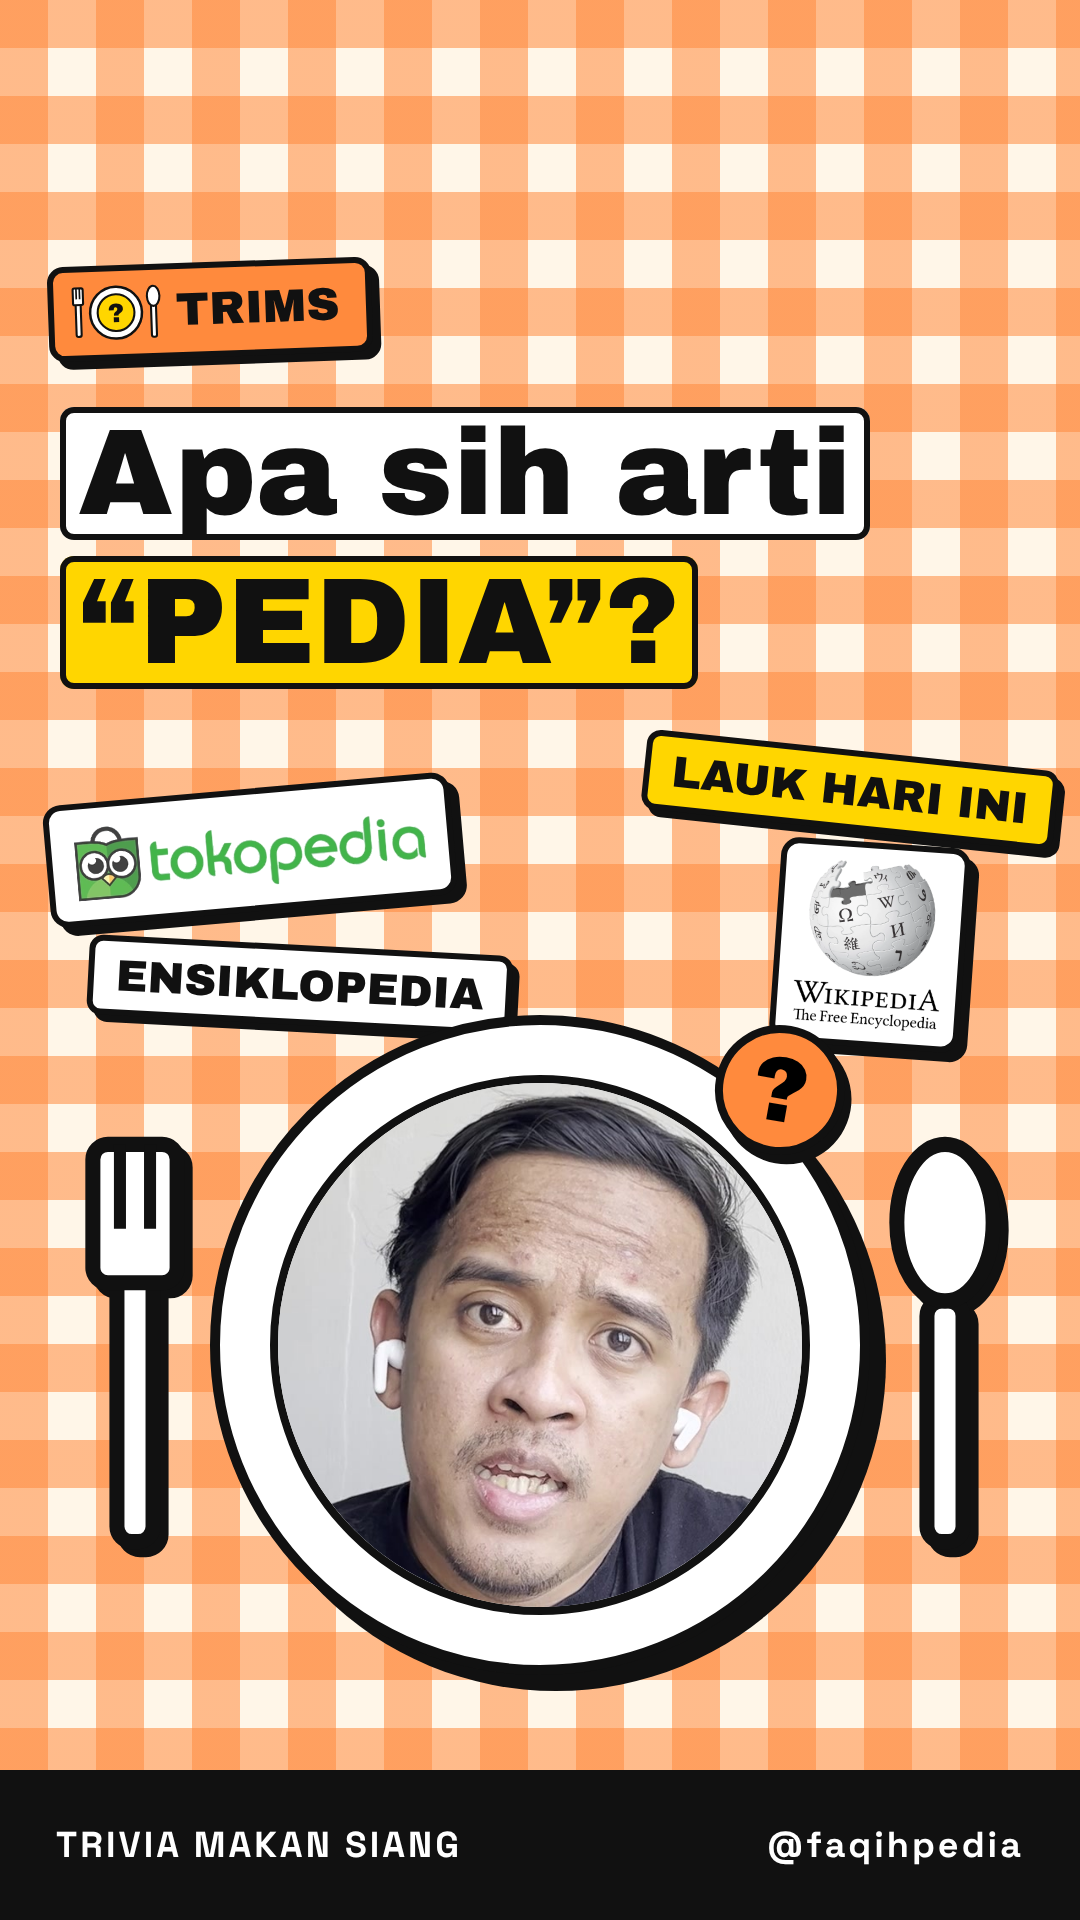
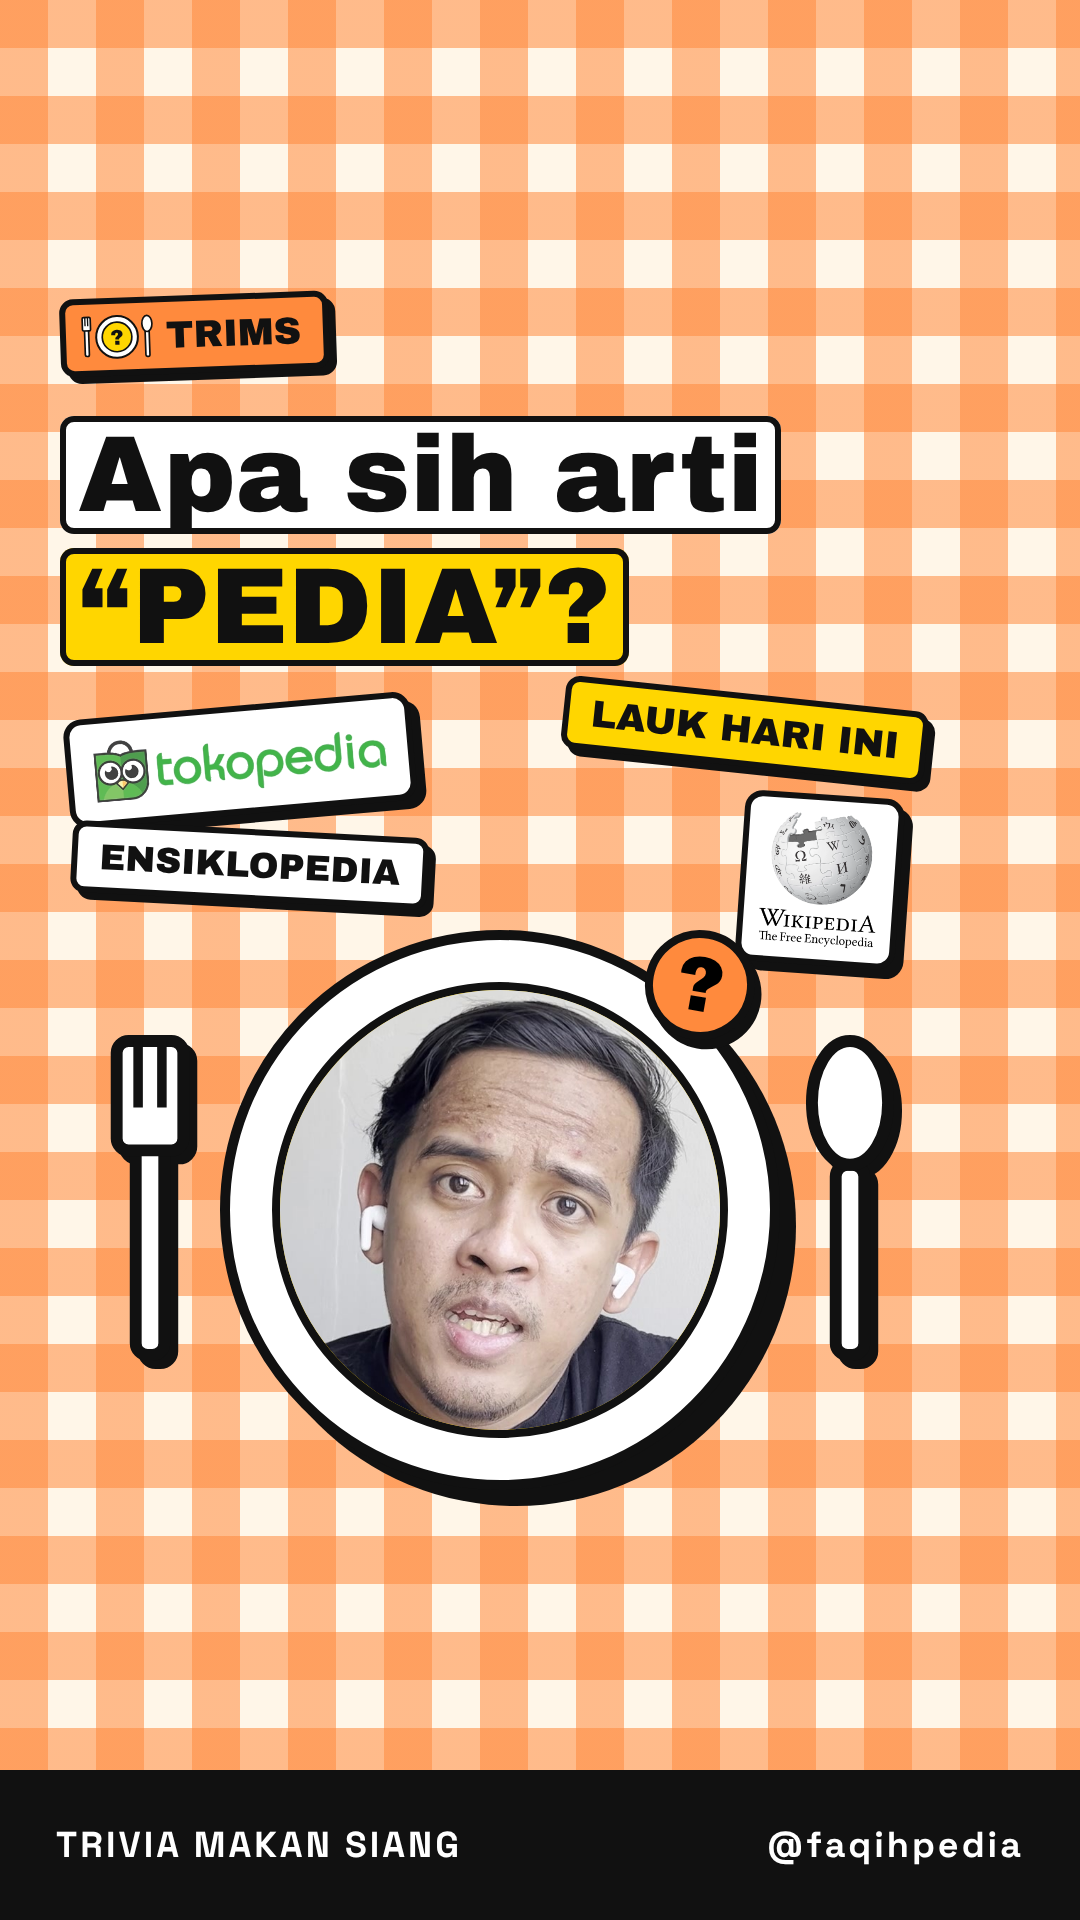
faqihpedia-artipedia: keep captions, stickers, stages and the cover inside the TikTok/Reels/feed safe area
Claude-Session: https://claude.ai/code/session_018xRo3dkDcCpQWWhAE55WWc

diff --git a/faqihpedia-artipedia/src/Video.tsx b/faqihpedia-artipedia/src/Video.tsx
@@ -4,7 +4,7 @@ import { CAPS } from './caps';
 import { At, Background, Box, Burst, Gingham, Rich, Sticker, lin, pop } from './components';
 import { PediaWord, SCENES } from './scenes';
 import { Sfx } from './sfx';
-import { BODY, BORDER, C, CUTS, END_CARD, HEAD, LAYOUT, MORPH, Mode, TOTAL, s, shadow } from './theme';
+import { BODY, BORDER, C, CUTS, END_CARD, HEAD, LAYOUT, MORPH, Mode, SAFE, SAFE_CX, TOTAL, s, shadow } from './theme';
 
 /* ------------------------------------------------------------------ */
 /* layout engine: one video element that morphs between three layouts */
@@ -21,9 +21,10 @@ type G = {
 };
 
 const GEOM: Record<Mode, G> = {
-  full: { vx: 0, vy: 0, vw: 1080, vh: 1920, vr: 0, vb: 0, sy: 0, scx: 540, scy: -640, ss: 1, full: 1, split: 0, anim: 0 },
-  split: { vx: 40, vy: 1000, vw: 1000, vh: 880, vr: 28, vb: BORDER, sy: 470, scx: 540, scy: 505, ss: 1, full: 0, split: 1, anim: 0 },
-  anim: { vx: 40, vy: 2080, vw: 1000, vh: 880, vr: 28, vb: BORDER, sy: 470, scx: 540, scy: 790, ss: 1.04, full: 0, split: 0, anim: 1 },
+  // stages are 1000x880 and scaled so they sit inside SAFE (x 60-940, y 285-1500)
+  full: { vx: 0, vy: 0, vw: 1080, vh: 1920, vr: 0, vb: 0, sy: 0, scx: SAFE_CX, scy: -640, ss: 0.72, full: 1, split: 0, anim: 0 },
+  split: { vx: 40, vy: 960, vw: 1000, vh: 920, vr: 28, vb: BORDER, sy: 590, scx: SAFE_CX, scy: 300 + 317, ss: 0.72, full: 0, split: 1, anim: 0 },
+  anim: { vx: 40, vy: 2080, vw: 1000, vh: 920, vr: 28, vb: BORDER, sy: 590, scx: SAFE_CX, scy: 385 + 387, ss: 0.88, full: 0, split: 0, anim: 1 },
 };
 
 const morphT = (f: number, start: number) =>
@@ -133,9 +134,11 @@ const Swipe: React.FC<{ f: number }> = ({ f }) => (
 /* captions, whole video                                               */
 /* ------------------------------------------------------------------ */
 const Captions: React.FC<{ f: number; g: G }> = ({ f, g }) => {
-  const y = 1560 * g.full + 1760 * g.split + 1580 * g.anim;
-  const w = 900 - 60 * g.split;
-  const fs = 46 - 6 * g.split;
+  // full/anim: bottom of the safe area. split: between the illustration and the face,
+  // so the face (lower in the frame) stays clear and everything is inside SAFE
+  const y = (g.full + g.anim) * (SAFE.bottom - 90) + g.split * 1000;
+  const w = SAFE.right - SAFE.left - 40;
+  const fs = 44;
   return (
     <>
       {CAPS.map(([a, b, text], i) => {
@@ -145,7 +148,7 @@ const Captions: React.FC<{ f: number; g: G }> = ({ f, g }) => {
         const p = pop(f, from, 260);
         const out = lin(f, to - 3, to);
         return (
-          <At key={i} x={540} y={y} s={(0.88 + 0.12 * p) * (1 - 0.06 * out)} o={Math.min(1, p * 1.6) * (1 - out)} r={i % 2 ? 1 : -1}>
+          <At key={i} x={SAFE_CX} y={y} s={(0.88 + 0.12 * p) * (1 - 0.06 * out)} o={Math.min(1, p * 1.6) * (1 - out)} r={i % 2 ? 1 : -1}>
             <Box pad="20px 30px" style={{ width: w, fontSize: fs, lineHeight: 1.3, fontWeight: 600, textAlign: 'center' }}>
               <Rich text={text} />
             </Box>
@@ -173,14 +176,14 @@ const FullStickers: React.FC<{ f: number; o: number }> = ({ f, o }) => {
   // "pedia" lands at 4.7s: every name gets a little bump
   const bump = 1 + 0.08 * Math.sin(Math.PI * lin(f, s(4.7), s(4.7) + 8));
   const hook = [
-    { at: 1.4, src: 'tokopedia.png', w: 430, x: 330, y: 455, r: 3 },
-    { at: 2.1, src: 'wikipedia.png', w: 210, x: 830, y: 395, r: -3 },
+    { at: 1.4, src: 'tokopedia.png', w: 270, x: 780, y: 615, r: 3 },
+    { at: 2.1, src: 'wikipedia.png', w: 130, x: 780, y: 790, r: -3 },
   ];
   return (
     <div style={{ position: 'absolute', inset: 0, opacity: o }}>
       {/* TRIMS fixed opening line */}
       {gone(0, 5.6) && (
-        <At x={540} y={205} s={P(0.1, 200) * out(5.6)} r={-1}>
+        <At x={SAFE_CX} y={385} s={P(0.1, 200) * out(5.6)} r={-1}>
           <Box bg={C.white} pad="10px 24px" radius={14} sh={7} style={{ fontFamily: BODY, fontWeight: 700, fontSize: 36, whiteSpace: 'nowrap' }}>
             Bahan obrolan makan siang hari ini…
           </Box>
@@ -188,8 +191,8 @@ const FullStickers: React.FC<{ f: number; o: number }> = ({ f, o }) => {
       )}
       {/* hook: three -pedia names, then the question */}
       {gone(0, 6.3) && (
-        <At x={330} y={320} s={P(0.3) * out(6.3) * bump} r={-4}>
-          <PediaWord head="ENSIKLO" lit={lin(f, s(4.7), s(4.7) + 6)} size={46} />
+        <At x={780} y={500} s={P(0.3) * out(6.3) * bump} r={-4}>
+          <PediaWord head="ENSIKLO" lit={lin(f, s(4.7), s(4.7) + 6)} size={36} />
         </At>
       )}
       {/* the real Tokopedia and Wikipedia logos, on white cards */}
@@ -202,7 +205,7 @@ const FullStickers: React.FC<{ f: number; o: number }> = ({ f, o }) => {
           </At>
         ))}
       {gone(5.8, 9.15) && (
-        <At x={540} y={330} s={P(5.9, 180) * out(9.15)} r={-3}>
+        <At x={SAFE_CX} y={470} s={P(5.9, 180) * out(9.15)} r={-3}>
           <Box bg={C.yellow} pad="14px 34px" style={{ fontFamily: HEAD, fontSize: 70, whiteSpace: 'nowrap' }}>
             “PEDIA” = <span style={{ background: C.white, border: `5px solid ${C.ink}`, borderRadius: 12, padding: '0 16px' }}>?</span>
           </Box>
@@ -210,26 +213,26 @@ const FullStickers: React.FC<{ f: number; o: number }> = ({ f, o }) => {
       )}
       {/* dig deeper */}
       {gone(33.3, 35.8) && (
-        <At x={540} y={330} s={P(33.4) * out(35.8)} r={2}>
+        <At x={SAFE_CX} y={460} s={P(33.4) * out(35.8)} r={2}>
           <Sticker bg={C.purple} size={54}>Bedah lebih dalam</Sticker>
         </At>
       )}
       {/* the account name */}
       {gone(86.3, 93.2) && (
         <>
-          <At x={540} y={270} s={P(88.5, 180) * out(93.2)} r={-3}>
+          <At x={SAFE_CX} y={440} s={P(88.5, 180) * out(93.2)} r={-3}>
             <Box bg={C.yellow} pad="10px 30px" style={{ fontFamily: HEAD, fontSize: 64, whiteSpace: 'nowrap' }}>
               FAQIH<span style={{ background: C.white, boxShadow: `inset 0 0 0 5px ${C.ink}`, borderRadius: 10, padding: '0 4px' }}>PEDIA</span>
             </Box>
           </At>
-          <At x={540} y={410} s={P(90.2) * out(93.2)} r={2}>
+          <At x={SAFE_CX} y={570} s={P(90.2) * out(93.2)} r={2}>
             <Sticker bg={C.green} size={40}>Dokumentasi yang aku tahu</Sticker>
           </At>
         </>
       )}
       {/* outro */}
       {gone(106.3, 111.3) && (
-        <At x={540} y={330} s={P(108.9) * out(111.3)} r={-2}>
+        <At x={SAFE_CX} y={460} s={P(108.9) * out(111.3)} r={-2}>
           <Box bg={C.white} pad="12px 30px" style={{ display: 'flex', alignItems: 'center', gap: 18, fontFamily: HEAD, fontSize: 50, whiteSpace: 'nowrap' }}>
             <span style={{ transform: `scale(${1 + 0.15 * Math.max(0, Math.sin((f - s(109.0)) * 0.35))})`, display: 'flex' }}><Heart /></span>
             LIKE DULU YA
@@ -237,7 +240,7 @@ const FullStickers: React.FC<{ f: number; o: number }> = ({ f, o }) => {
         </At>
       )}
       {f >= s(111.3) && (
-        <At x={540} y={360} s={P(111.35, 200)} r={-6}>
+        <At x={SAFE_CX} y={520} s={P(111.35, 200)} r={-6}>
           <Burst size={460} color={C.yellow} rot={f * 0.8}>
             <span style={{ fontSize: 66 }}>TRIMS!</span>
           </Burst>
@@ -264,9 +267,9 @@ export const TrimsLogo: React.FC<{ size?: number }> = ({ size = 70 }) => (
 
 /** segment label, top-left (segment kit rule); hidden while the split layout needs the top edge */
 const SegmentBadge: React.FC<{ f: number; o: number }> = ({ f, o }) => (
-  <div style={{ position: 'absolute', left: 44, top: 62, opacity: o, transform: `scale(${pop(f, 4)}) rotate(-2deg)`, transformOrigin: 'left center' }}>
-    <Box bg={C.orange} pad="8px 22px 8px 14px" radius={14} sh={7} style={{ display: 'flex', alignItems: 'center', gap: 12, fontFamily: HEAD, fontSize: 38, whiteSpace: 'nowrap' }}>
-      <TrimsLogo size={74} />
+  <div style={{ position: 'absolute', left: SAFE.left, top: SAFE.top + 8, opacity: o, transform: `scale(${pop(f, 4)}) rotate(-2deg)`, transformOrigin: 'left center' }}>
+    <Box bg={C.orange} pad="6px 18px 6px 12px" radius={12} sh={6} style={{ display: 'flex', alignItems: 'center', gap: 10, fontFamily: HEAD, fontSize: 30, whiteSpace: 'nowrap' }}>
+      <TrimsLogo size={58} />
       TRIMS
     </Box>
   </div>
@@ -282,16 +285,16 @@ const EndCard: React.FC<{ f: number }> = ({ f }) => {
   const P = (d: number, k = 200) => pop(f, a + d, k);
   return (
     <AbsoluteFill style={{ clipPath: `circle(${inP * 130}% at 50% 40%)`, background: `${Gingham(96)}, ${C.bg}` }}>
-      <At x={540} y={560} s={P(4)} r={-3}>
+      <At x={SAFE_CX} y={590} s={P(4)} r={-3}>
         <div style={{ background: C.white, border: `${BORDER}px solid ${C.ink}`, borderRadius: '50%', boxShadow: shadow(14), padding: 40 }}>
           <TrimsLogo size={420} />
         </div>
       </At>
-      <At x={540} y={950} s={P(8)} r={2}>
+      <At x={SAFE_CX} y={960} s={P(8)} r={2}>
         <Sticker bg={C.orange} size={110}>TRIMS</Sticker>
       </At>
-      <At x={540} y={1180} s={P(14)} r={-1.5}>
-        <Box bg={C.white} pad="26px 40px" style={{ width: 900, textAlign: 'center', fontFamily: BODY, fontWeight: 700, fontSize: 46, lineHeight: 1.3 }}>
+      <At x={SAFE_CX} y={1170} s={P(14)} r={-1.5}>
+        <Box bg={C.white} pad="26px 40px" style={{ width: 840, textAlign: 'center', fontFamily: BODY, fontWeight: 700, fontSize: 44, lineHeight: 1.3 }}>
           Trims udah makan siang bareng.<br />
           <span style={{ background: C.yellow, border: `4px solid ${C.ink}`, borderRadius: 10, padding: '0 10px' }}>Besok lauk baru.</span>
         </Box>

diff --git a/faqihpedia-artipedia/src/Thumbnail.tsx b/faqihpedia-artipedia/src/Thumbnail.tsx
@@ -1,14 +1,15 @@
 import React from 'react';
 import { AbsoluteFill, Img, staticFile } from 'remotion';
 import { At, Box, Gingham, Sticker } from './components';
-import { BODY, BORDER, C, HEAD, shadow } from './theme';
+import { BODY, BORDER, C, HEAD, SAFE, shadow } from './theme';
 import { TrimsLogo } from './Video';
 
 /*
  * TRIMS cover (Faqihpedia segment kit):
  *  - gingham "taplak warung" background
  *  - segment label top-left (no episode number for now)
- *  - label + title kept inside the 3:4 profile-grid crop (y 240-1680); title is 4 words
+ *  - everything that matters sits inside SAFE (x 60-940, y 285-1500): clear of the TikTok/Reels UI
+ *    and inside the 4:5 feed and 3:4 profile-grid crops; title is 4 words
  *  - "LAUK HARI INI" fact card, yellow, tilted 6 degrees
  *  - face center-bottom, here served on the TRIMS plate between a fork and a spoon
  *  - black strip at the bottom with the series name and @faqihpedia
@@ -37,54 +38,54 @@ const Spoon: React.FC<{ h: number }> = ({ h }) => (
 export const Thumbnail: React.FC = () => (
   <AbsoluteFill style={{ background: `${Gingham(96)}, ${C.bg}`, overflow: 'hidden' }}>
     {/* segment label, top-left */}
-    <div style={{ position: 'absolute', left: 48, top: 262, transform: 'rotate(-2deg)' }}>
-      <Box bg={C.orange} pad="10px 26px 10px 16px" radius={16} sh={8} style={{ display: 'flex', alignItems: 'center', gap: 14, fontFamily: HEAD, fontSize: 46, whiteSpace: 'nowrap' }}>
-        <TrimsLogo size={92} />
+    <div style={{ position: 'absolute', left: SAFE.left, top: SAFE.top + 10, transform: 'rotate(-2deg)' }}>
+      <Box bg={C.orange} pad="8px 22px 8px 14px" radius={14} sh={7} style={{ display: 'flex', alignItems: 'center', gap: 12, fontFamily: HEAD, fontSize: 38, whiteSpace: 'nowrap' }}>
+        <TrimsLogo size={74} />
         TRIMS
       </Box>
     </div>
 
     {/* title: 4 words, top third */}
-    <div style={{ position: 'absolute', left: 60, right: 60, top: 400, fontFamily: HEAD, fontSize: 122, lineHeight: 1.22, color: C.ink }}>
+    <div style={{ position: 'absolute', left: SAFE.left, right: 1080 - SAFE.right, top: 410, fontFamily: HEAD, fontSize: 108, lineHeight: 1.22, color: C.ink }}>
       <span style={mark}>Apa sih arti</span>
       <br />
       <span style={{ ...mark, background: C.yellow }}>“PEDIA”?</span>
     </div>
 
     {/* the three -pedia names */}
-    <At x={250} y={850} r={-5}>
+    <At x={240} y={760} r={-5}>
       <Box bg={C.white} pad="14px 18px" radius={18} sh={9}>
-        <Img src={staticFile('tokopedia.png')} style={{ width: 360, display: 'block' }} />
+        <Img src={staticFile('tokopedia.png')} style={{ width: 300, display: 'block' }} />
       </Box>
     </At>
-    <At x={850} y={790} r={6}>
-      <Sticker bg={C.yellow} size={44}>Lauk hari ini</Sticker>
+    <At x={745} y={730} r={6}>
+      <Sticker bg={C.yellow} size={38}>Lauk hari ini</Sticker>
     </At>
-    <At x={870} y={945} r={4}>
+    <At x={820} y={880} r={4}>
       <Box bg={C.white} pad="12px 14px" radius={18} sh={9}>
-        <Img src={staticFile('wikipedia.png')} style={{ width: 150, display: 'block' }} />
+        <Img src={staticFile('wikipedia.png')} style={{ width: 120, display: 'block' }} />
       </Box>
     </At>
-    <At x={300} y={985} r={3}>
-      <Sticker bg={C.white} size={44}>Ensiklopedia</Sticker>
+    <At x={250} y={865} r={3}>
+      <Sticker bg={C.white} size={36}>Ensiklopedia</Sticker>
     </At>
 
     {/* face on the TRIMS plate, between a fork and a spoon */}
-    <At x={135} y={1345}>
-      <Fork h={430} />
+    <At x={150} y={1200}>
+      <Fork h={340} />
     </At>
-    <At x={945} y={1345}>
-      <Spoon h={430} />
+    <At x={850} y={1200}>
+      <Spoon h={340} />
     </At>
-    <At x={540} y={1345}>
-      <div style={{ width: 660, height: 660, borderRadius: '50%', background: C.white, border: `${BORDER + 4}px solid ${C.ink}`, boxShadow: shadow(16), display: 'flex', alignItems: 'center', justifyContent: 'center' }}>
-        <div style={{ width: 540, height: 540, borderRadius: '50%', overflow: 'hidden', border: `${BORDER + 2}px solid ${C.ink}`, background: C.yellow }}>
+    <At x={500} y={1210}>
+      <div style={{ width: 560, height: 560, borderRadius: '50%', background: C.white, border: `${BORDER + 4}px solid ${C.ink}`, boxShadow: shadow(16), display: 'flex', alignItems: 'center', justifyContent: 'center' }}>
+        <div style={{ width: 456, height: 456, borderRadius: '50%', overflow: 'hidden', border: `${BORDER + 2}px solid ${C.ink}`, background: C.yellow }}>
           <Img src={staticFile('thumb-face.jpg')} style={{ width: '100%', height: '100%', objectFit: 'cover' }} />
         </div>
       </div>
     </At>
-    <At x={780} y={1090} r={10}>
-      <div style={{ width: 130, height: 130, borderRadius: '50%', background: C.orange, border: `${BORDER + 2}px solid ${C.ink}`, boxShadow: shadow(8), display: 'flex', alignItems: 'center', justifyContent: 'center', fontFamily: HEAD, fontSize: 92 }}>?</div>
+    <At x={700} y={985} r={10}>
+      <div style={{ width: 110, height: 110, borderRadius: '50%', background: C.orange, border: `${BORDER + 2}px solid ${C.ink}`, boxShadow: shadow(8), display: 'flex', alignItems: 'center', justifyContent: 'center', fontFamily: HEAD, fontSize: 78 }}>?</div>
     </At>
 
     {/* series strip */}

diff --git a/faqihpedia-artipedia/src/theme.ts b/faqihpedia-artipedia/src/theme.ts
@@ -66,6 +66,16 @@ export const LAYOUT: [number, Mode][] = [
   [106.2, 'full'], // like + trims
 ];
 
+/**
+ * Safe area shared by TikTok, Instagram Reels and the Instagram feed (1080x1920).
+ *  - TikTok: top tabs ~150px, caption/music ~420px at the bottom, action buttons ~140px on the right
+ *  - Reels: header ~220px, caption/audio ~420px at the bottom, icons on the right
+ *  - Feed: reels are cropped to 4:5 (y 285-1635), the profile grid to 3:4 (y 240-1680)
+ * Every caption, sticker, title and illustration stays inside this box.
+ */
+export const SAFE = { left: 60, right: 940, top: 285, bottom: 1500 };
+export const SAFE_CX = (SAFE.left + SAFE.right) / 2; // 500
+
 /** frames a layout change takes */
 export const MORPH = 14;
 

diff --git a/README.md b/README.md
@@ -102,6 +102,7 @@ It follows the **TRIMS (Trivia Makan Siang)** rules from the Faqihpedia segment 
 - **Sound**: a spoon-on-plate "ting" whenever a fact lands.
 - **Bumper**: the 3s TRIMS bumper (`public/trims-bumper.mp4`, from `trims-bumper/`) comes right after the hook question. `scripts/splice.sh` inserts it at `BUMPER_AT` (9.5s) and normalizes the loudness.
 - **Hook logos**: the real Tokopedia and Wikipedia logos (`public/tokopedia.png`, `public/wikipedia.png`) sit on white cards. "-pedia" words are always written as one word, with only a highlight on PEDIA.
+- **Safe area**: captions, stickers, titles and illustrations stay inside `SAFE` (x 60–940, y 285–1500 in `src/theme.ts`). That keeps them clear of the TikTok and Reels UI (top bar, caption/music area, action buttons on the right) and inside the Instagram feed's 4:5 crop and the profile grid's 3:4 crop. In the split layout the caption sits between the illustration and the face.
 - **Fixed lines**: the opening line ("Bahan obrolan makan siang hari ini…") is shown on screen. The closing line ("Trims udah makan siang bareng. Besok lauk baru.") is on the end card, with the black "TRIVIA MAKAN SIANG · @faqihpedia" strip.
 
 The edit also adds:
@@ -132,7 +133,7 @@ npx remotion render FaqihpediaArtipedia main.mp4 --browser-executable=<chrome-he
 scripts/splice.sh main.mp4 faqihpedia-artipedia.mp4   # adds the bumper after the hook
 ```
 
-The cover is `faqihpedia-artipedia/thumbnail.png` (the `Thumbnail` still in `src/Thumbnail.tsx`). It follows the TRIMS cover rules: gingham background, label top-left, a title of at most 6 words, the "LAUK HARI INI" card, the face on the TRIMS plate, and the black series strip. The label and title stay inside the 3:4 Instagram grid crop.
+The cover is `faqihpedia-artipedia/thumbnail.png` (the `Thumbnail` still in `src/Thumbnail.tsx`). It follows the TRIMS cover rules: gingham background, label top-left, a title of at most 6 words, the "LAUK HARI INI" card, the face on the TRIMS plate, and the black series strip. Everything that matters sits inside the same `SAFE` box.
 
 ```sh
 npx remotion still Thumbnail thumbnail.png --browser-executable=<chrome-headless-shell>
